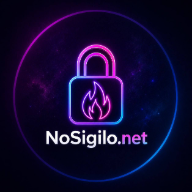
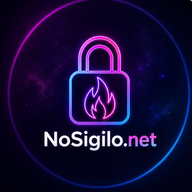
feat(marca): novo icone do app (cadeado com chama) em todos os tamanhos

diff --git a/public/sw.js b/public/sw.js
@@ -1,5 +1,5 @@
-const CACHE_NAME = 'nosigilo-shell-v5';
-const OFFLINE_SHELL = ['/index.html', '/manifest.webmanifest', '/favicon.svg', '/apple-touch-icon.svg', '/icon-192.svg', '/icon-512.svg'];
+const CACHE_NAME = 'nosigilo-shell-v6';
+const OFFLINE_SHELL = ['/index.html', '/manifest.webmanifest', '/favicon.ico', '/apple-touch-icon.png', '/icon-192.png', '/icon-512.png'];
 
 self.addEventListener('install', (event) => {
   event.waitUntil(
@@ -75,8 +75,8 @@ self.addEventListener('push', (event) => {
   const title = String(payload?.title || 'NoSigilo.net');
   const options = {
     body: payload?.body ? String(payload.body) : '',
-    icon: payload?.icon ? String(payload.icon) : '/icon-192.svg',
-    badge: payload?.badge ? String(payload.badge) : '/icon-192.svg',
+    icon: payload?.icon ? String(payload.icon) : '/icon-192.png',
+    badge: payload?.badge ? String(payload.badge) : '/icon-96.png',
     tag: payload?.tag ? String(payload.tag) : 'nosigilo-push',
     data: {
       url: payload?.url ? String(payload.url) : '/notifications',

diff --git a/index.html b/index.html
@@ -48,8 +48,8 @@
     <link rel="icon" type="image/png" sizes="48x48" href="/icon-48.png" />
     <link rel="icon" href="/favicon.ico" sizes="any" />
     <link rel="shortcut icon" href="/favicon.ico" />
-    <link rel="apple-touch-icon" href="/icon.jpg" />
-    <link rel="apple-touch-icon-precomposed" href="/icon.jpg" />
+    <link rel="apple-touch-icon" sizes="180x180" href="/apple-touch-icon.png" />
+    <link rel="apple-touch-icon-precomposed" href="/apple-touch-icon.png" />
 
     <!-- Hero da landing: e um background CSS, entao so seria descoberto depois
          do CSS baixar e o React montar. O preload adianta a maior imagem

diff --git a/backend/src/app.ts b/backend/src/app.ts
@@ -1332,8 +1332,8 @@ function buildWebPushPayload(payload: PushDeliveryPayload) {
     url: payload.url ?? '/notifications',
     tag: payload.tag ?? 'nosigilo',
     data: payload.data ?? null,
-    icon: payload.icon ?? '/icon-192.svg',
-    badge: payload.badge ?? '/icon-192.svg',
+    icon: payload.icon ?? '/icon-192.png',
+    badge: payload.badge ?? '/icon-96.png',
   });
 }
 
